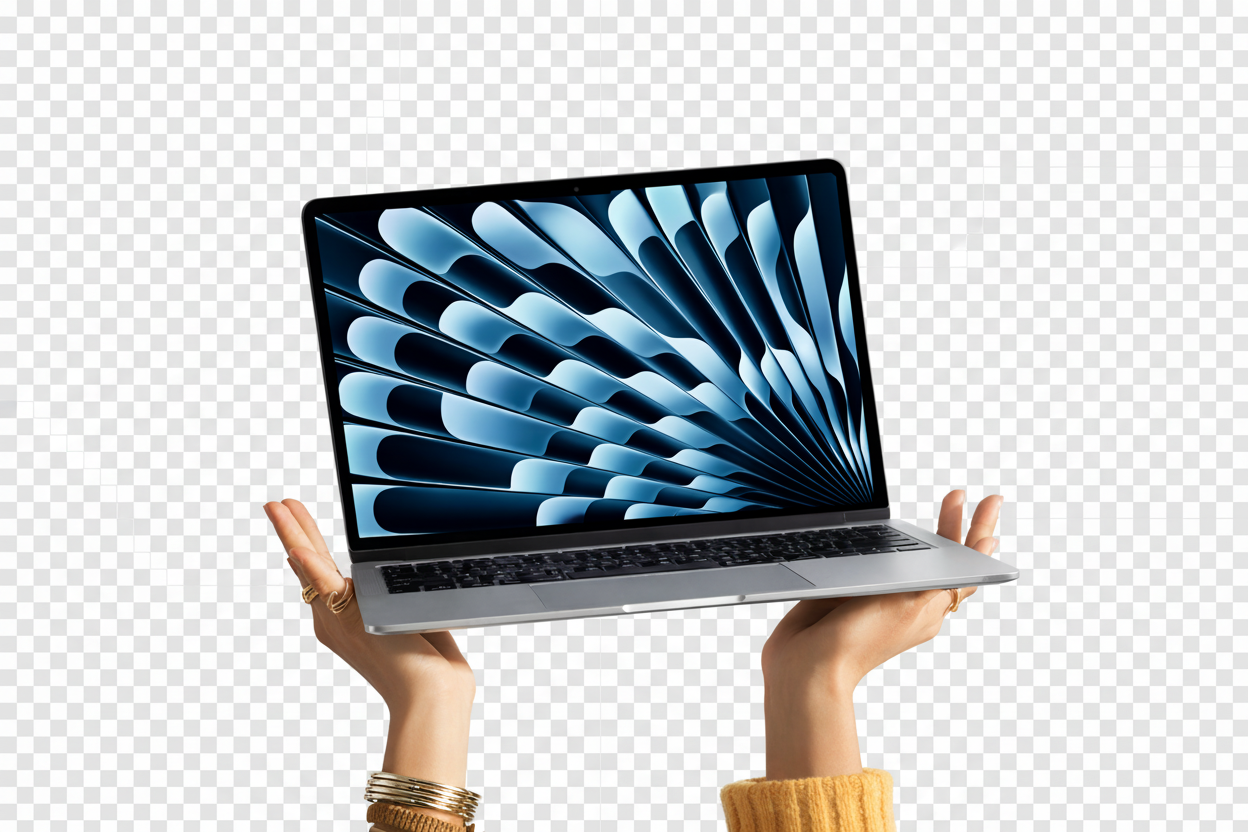
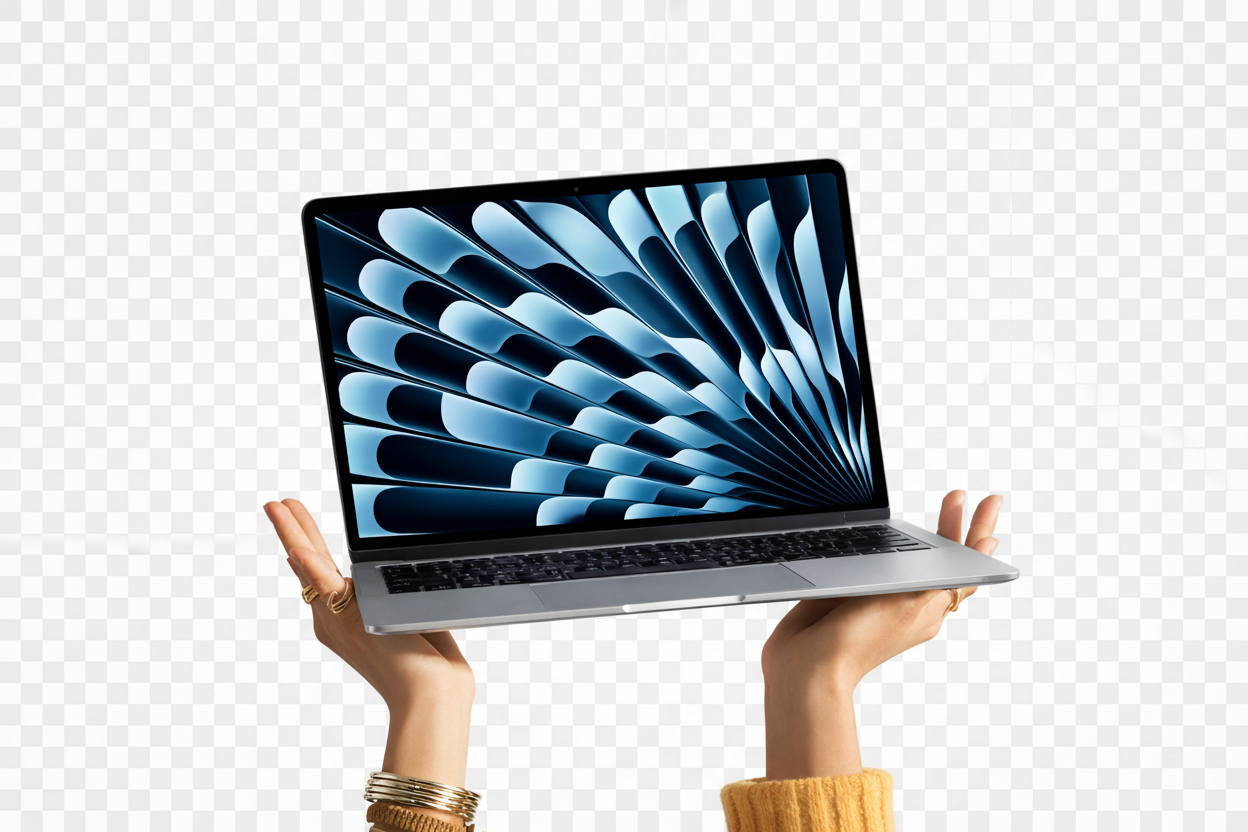
Changes

diff --git a/src/pages/BusinessAuth.tsx b/src/pages/BusinessAuth.tsx
@@ -11,7 +11,7 @@ import { useToast } from '@/hooks/use-toast';
 import { z } from 'zod';
 import { Loader2, X, ArrowUp, Check, Instagram, Facebook, Youtube, Twitter, Linkedin, Pencil } from 'lucide-react';
 import jarlaLogo from '@/assets/jarla-logo.png';
-import businessLaptop from '@/assets/business-laptop-nobg.png';
+import businessLaptop from '@/assets/business-laptop.png';
 
 const emailSchema = z.string().email('Please enter a valid email address');
 const passwordSchema = z.string().min(6, 'Password must be at least 6 characters');
@@ -1451,7 +1451,7 @@ const BusinessAuth: React.FC = () => {
                   <img 
                     src={businessLaptop} 
                     alt="Business laptop" 
-                    className={`h-[66vh] w-auto object-contain object-bottom transition-opacity duration-500 ${freeText ? 'opacity-100' : 'opacity-0'}`}
+                    className={`h-[80vh] w-auto object-contain object-bottom transition-opacity duration-500 mix-blend-multiply dark:mix-blend-screen ${freeText ? 'opacity-100' : 'opacity-0'}`}
                   />
                 </div>
               </div>
